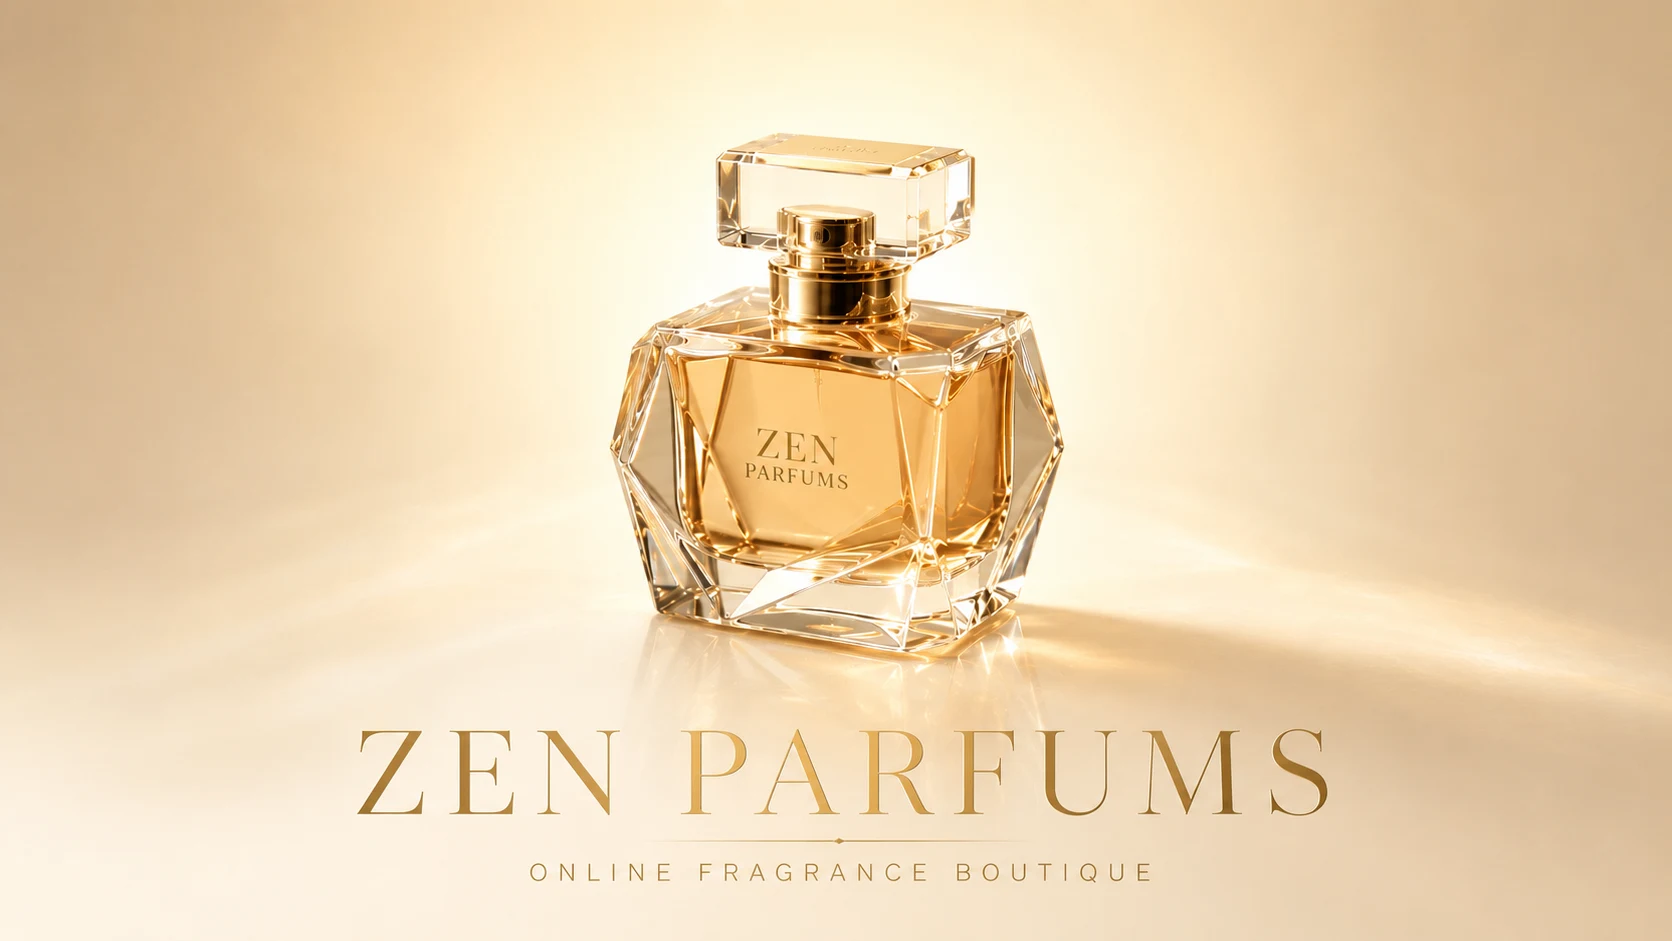
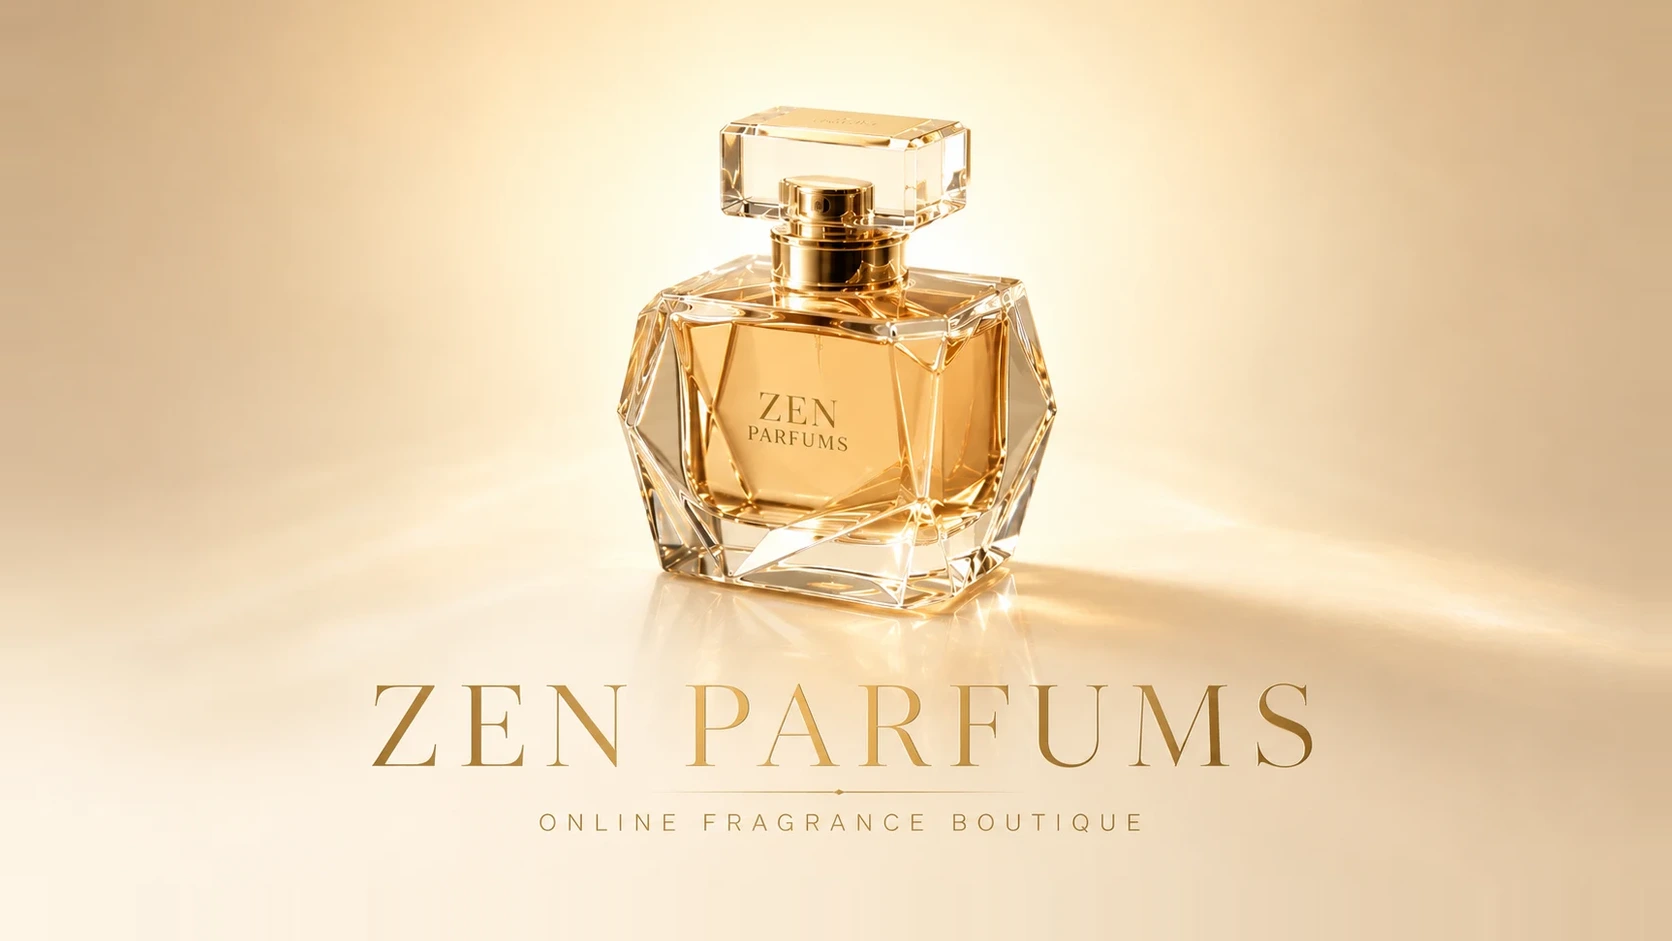
Alinear foto clara del hero con la oscura y reemplazar filtros por selector de orden
- Reposiciona y reescala la foto clara del hero (desktop y mobile) para que el frasco quede al mismo tamaño y altura que en modo oscuro.
- Reemplaza los botones de categoría del catálogo por un selector único "Ordenar por" (género + menor/mayor precio), alineado a la derecha del buscador en desktop y apilado en mobile.
- Agrega ordenamiento por precio (asc/desc) en catalog.js.

Changed region(s): [[0.2177, 0.0925, 0.9952, 0.8937]]

diff --git a/index.html b/index.html
@@ -75,17 +75,27 @@
 <section class="sec sec-p" id="catalogo">
   <div class="sec-in">
     <div class="sh rev"><span class="sey">Cat&#225;logo</span><h2 class="st">Fragancias <em>Premium</em></h2><p class="sub">+500 perfumes originales. &#193;rabes e internacionales, para &#233;l, para ella y unisex.</p><div class="gr"></div></div>
-    <div class="srch-wrap">
-      <svg class="srch-ico" width="16" height="16" viewBox="0 0 24 24" fill="none" stroke="currentColor" stroke-width="1.5"><circle cx="11" cy="11" r="8"/><path d="m21 21-4.3-4.3"/></svg>
-      <input class="srch" id="srch" type="search" placeholder="Buscar perfume, marca, notas&#8230;" oninput="onSearch(this.value)" autocomplete="off">
-    </div>
-    <div class="filters">
-      <button class="fb on" onclick="filterBy('todos',this)">Todos</button>
-      <button class="fb" onclick="filterBy('hombre',this)">Hombre</button>
-      <button class="fb" onclick="filterBy('mujer',this)">Mujer</button>
-      <button class="fb" onclick="filterBy('unisex',this)">Unisex</button>
-      <button class="fb" onclick="filterBy('arabes',this)">&#193;rabes</button>
-      <button class="fb" onclick="filterBy('internacional',this)">Internacional</button>
+    <div class="ctrl-row">
+      <div class="srch-wrap">
+        <svg class="srch-ico" width="16" height="16" viewBox="0 0 24 24" fill="none" stroke="currentColor" stroke-width="1.5"><circle cx="11" cy="11" r="8"/><path d="m21 21-4.3-4.3"/></svg>
+        <input class="srch" id="srch" type="search" placeholder="Buscar perfume, marca, notas&#8230;" oninput="onSearch(this.value)" autocomplete="off">
+      </div>
+      <div class="sort-bar">
+        <label class="sort-lb" for="sortSel">Ordenar por</label>
+        <div class="sel-wrap">
+          <select id="sortSel" class="sel-sort" onchange="setSort(this.value)">
+            <option value="todos">Todos</option>
+            <option value="hombre">Hombre</option>
+            <option value="mujer">Mujer</option>
+            <option value="unisex">Unisex</option>
+            <option value="arabes">&#193;rabes</option>
+            <option value="internacional">Internacional</option>
+            <option value="precio-asc">Menor precio</option>
+            <option value="precio-desc">Mayor precio</option>
+          </select>
+          <svg class="sel-chev" width="14" height="14" viewBox="0 0 24 24" fill="none" stroke="currentColor" stroke-width="2"><polyline points="6 9 12 15 18 9"/></svg>
+        </div>
+      </div>
     </div>
     <div class="pg" id="pg"></div>
     <div class="pag" id="pag"></div>
@@ -200,7 +210,7 @@
 <script src="js/cart.js"></script>
 <script src="js/wishlist.js"></script>
 <script src="js/mobmenu.js"></script>
-<script src="js/catalog.js"></script>
+<script src="js/catalog.js?v=2"></script>
 <script src="js/app.js"></script>
 </body>
 </html>

diff --git a/js/catalog.js b/js/catalog.js
@@ -1,5 +1,5 @@
 var PS = 48;
-var cFil = "todos", cSrch = "", cPg = 1;
+var cFil = "todos", cSrch = "", cPg = 1, cSort = "none";
 
 
 /* ---- SEGMENTED CONTROL FEEDBACK ---- */
@@ -65,6 +65,16 @@ function getList() {
   if (cSrch) {
     var q = cSrch;
     l = l.filter(function(p){ return (p.b+" "+p.n+" "+p.nt).toLowerCase().indexOf(q) > -1; });
+  }
+  if (cSort === "asc" || cSort === "desc") {
+    l = l.slice().sort(function(a,b){
+      var ap = a.p > 0 ? a.p : Infinity;
+      var bp = b.p > 0 ? b.p : Infinity;
+      if (ap === Infinity && bp === Infinity) return 0;
+      if (ap === Infinity) return 1;
+      if (bp === Infinity) return -1;
+      return cSort === "asc" ? ap - bp : bp - ap;
+    });
   }
   return l;
 }
@@ -288,18 +298,15 @@ function closeFicha() {
   document.body.style.overflow = "";
 }
 
-function filterBy(cat, btn) {
-  document.querySelectorAll(".fb").forEach(function(b){ b.classList.remove("on"); });
-  if (btn) { btn.classList.add("on"); }
-  else {
-    document.querySelectorAll(".fb").forEach(function(b){
-      if ((cat === "todos" && b.textContent.trim() === "Todos") ||
-          b.textContent.trim().toLowerCase() === cat) b.classList.add("on");
-    });
-  }
-  cFil = cat; cPg = 1; cSrch = "";
+function setSort(v) {
+  if (v === "precio-asc") { cSort = "asc"; cFil = "todos"; }
+  else if (v === "precio-desc") { cSort = "desc"; cFil = "todos"; }
+  else { cSort = "none"; cFil = v; }
+  cPg = 1; cSrch = "";
   var si = $("srch"); if (si) si.value = "";
+  var sel = $("sortSel"); if (sel) sel.value = v;
   renderProds();
-  if (cat !== "todos") setTimeout(function(){ $("catalogo").scrollIntoView({behavior:"smooth",block:"start"}); }, 80);
+  if (v !== "todos") setTimeout(function(){ $("catalogo").scrollIntoView({behavior:"smooth",block:"start"}); }, 80);
 }
+function filterBy(cat) { setSort(cat); }
 function onSearch(v) { cSrch = v.toLowerCase().trim(); cPg = 1; renderProds(); }

diff --git a/css/styles.css b/css/styles.css
@@ -11,9 +11,9 @@
   --e:cubic-bezier(.4,0,.2,1);--t:.28s;--ts:.5s;
   --mw:1280px;
   --hero-ar:0.5628;--header-h:112px;
-  --hero-photo-light:url('../img/hero-light-desktop.webp?v=2');
+  --hero-photo-light:url('../img/hero-light-desktop.webp?v=4');
   --hero-photo-mobile:url('../img/hero-dark-mobile.webp?v=2');
-  --hero-photo-light-mobile:url('../img/hero-light-mobile.webp?v=2');
+  --hero-photo-light-mobile:url('../img/hero-light-mobile.webp?v=5');
   --hero-photo:url('../img/hero-dark-desktop.webp?v=2');
   --surface-strong:#ddd0ba;--header-bg:rgba(235,227,213,.96);--hero-start:#f3ebdf;--hero-mid:#ece0cf;--hero-end:#f7f1e7;--hero-overlay:radial-gradient(circle at 20% 20%,rgba(120,120,120,.05),transparent 18%),radial-gradient(circle at 80% 12%,rgba(90,90,90,.04),transparent 22%),radial-gradient(circle at 24% 78%,rgba(150,150,150,.04),transparent 24%),radial-gradient(circle at 76% 72%,rgba(80,80,80,.03),transparent 16%),linear-gradient(135deg,rgba(255,255,255,.08) 0%,rgba(255,255,255,0) 30%,rgba(255,255,255,.05) 52%,rgba(255,255,255,0) 70%,rgba(255,255,255,.04) 100%),linear-gradient(100deg,rgba(255,255,255,.03) 0%,rgba(255,255,255,0) 27%,rgba(255,255,255,.02) 45%,rgba(255,255,255,0) 78%,rgba(255,255,255,.01) 100%);
 }
@@ -42,7 +42,7 @@ body[data-theme="dark"]{
 body[data-theme="dark"] .tbar,body[data-theme="dark"] .sec-p,body[data-theme="dark"] .sec-cta{background:var(--ow)}
 body[data-theme="dark"] .sec-st,body[data-theme="dark"] .ftr{background:var(--surface-strong)}
 body[data-theme="dark"] .pc,body[data-theme="dark"] .bc,body[data-theme="dark"] .mob,body[data-theme="dark"] .cd{background:var(--w);color:var(--bk)}
-body[data-theme="dark"] .srch,body[data-theme="dark"] .fb,body[data-theme="dark"] .pag-btn{background:var(--w);color:var(--bk);border-color:var(--lg)}
+body[data-theme="dark"] .srch,body[data-theme="dark"] .sel-sort,body[data-theme="dark"] .pag-btn{background:var(--w);color:var(--bk);border-color:var(--lg)}
 body[data-theme="dark"] .ftr .fl,body[data-theme="dark"] .ftr .fct{color:#fff}
 img{display:block;max-width:100%}
 a{text-decoration:none;color:inherit}
@@ -144,13 +144,20 @@ body:not([data-theme="dark"]) .cc .cc-l{color:var(--dg)}
 body:not([data-theme="dark"]) .cc:hover .cc-l{color:var(--go)}
 /* PRODUCTS */
 .sec-p{background:var(--ow)}
+.ctrl-row{display:flex;align-items:center;justify-content:center;gap:20px;max-width:820px;margin:0 auto 44px}
 .srch-wrap{max-width:480px;margin:0 auto 28px;position:relative}
+.ctrl-row .srch-wrap{flex:1 1 320px;margin:0}
 .srch{width:100%;padding:13px 16px 13px 44px;border:1px solid var(--lg);border-radius:100px;font-family:var(--fb);font-size:13px;color:var(--bk);background:var(--w);outline:none;transition:border-color var(--t)}
 .srch:focus{border-color:var(--go)}
 .srch-ico{position:absolute;left:16px;top:50%;transform:translateY(-50%);color:var(--gr);pointer-events:none}
-.filters{display:flex;gap:8px;justify-content:center;flex-wrap:wrap;margin-bottom:44px}
-.fb{padding:8px 20px;font-size:11px;font-weight:500;letter-spacing:.08em;text-transform:uppercase;border-radius:100px;border:1px solid var(--lg);color:var(--gr);background:var(--w);transition:all var(--t) var(--e)}
-.fb:hover,.fb.on{background:var(--surface-strong);border-color:var(--surface-strong);color:#fff}
+.sort-bar{display:flex;align-items:center;justify-content:center;gap:14px;flex-wrap:wrap;margin-bottom:44px}
+.ctrl-row .sort-bar{margin:0;flex:0 0 auto}
+.sort-lb{font-size:11px;font-weight:500;letter-spacing:.14em;text-transform:uppercase;color:var(--gr)}
+.sel-wrap{position:relative;display:inline-flex;align-items:center}
+.sel-sort{appearance:none;-webkit-appearance:none;-moz-appearance:none;width:168px;padding:11px 34px 11px 18px;font-family:var(--fb);font-size:12px;font-weight:500;letter-spacing:.04em;color:var(--bk);background:var(--w);border:1px solid var(--lg);border-radius:100px;cursor:pointer;outline:none;transition:border-color var(--t),box-shadow var(--t)}
+.sel-sort:hover{border-color:var(--go)}
+.sel-sort:focus{border-color:var(--go);box-shadow:0 0 0 3px rgba(184,150,90,.15)}
+.sel-chev{position:absolute;right:14px;top:50%;transform:translateY(-50%);color:var(--gr);pointer-events:none}
 .pg{display:grid;grid-template-columns:repeat(4,1fr);gap:22px}
 /* CARD */
 .pc{background:var(--w);border-radius:var(--r8);overflow:hidden;box-shadow:var(--sh);transition:all var(--t) var(--e);position:relative;display:flex;flex-direction:column}
@@ -413,7 +420,7 @@ body[data-theme="dark"] .pm-ficha-ico:hover{background:#c89d4d !important;color:
 /* RESPONSIVE */
 @media(max-width:1100px){.pg{grid-template-columns:repeat(3,1fr)}.cg{grid-template-columns:repeat(3,1fr)}.sg{grid-template-columns:repeat(2,1fr)}}
 @media(max-width:960px){.ft{grid-template-columns:1fr 1fr}.tg2{grid-template-columns:1fr}}
-@media(max-width:768px){:root{--hero-ar:0.9286}.sec{padding:56px 20px}.site-header-links{display:none}.site-burger{display:flex}.cg{grid-template-columns:repeat(2,1fr);gap:10px}.pg{grid-template-columns:repeat(2,1fr);gap:12px}.pc-bd{padding:14px}.bg3{grid-template-columns:1fr;gap:16px}.sg{grid-template-columns:repeat(2,1fr);gap:16px}.ft{grid-template-columns:1fr;gap:32px}.fb2{flex-direction:column;gap:8px;text-align:center}.tbar-in{flex-direction:row;flex-wrap:wrap}.ti{max-width:100%}.ti+.ti{border-left:1px solid var(--lg)}.pc-ft{flex-direction:column;align-items:stretch;gap:10px}.pc-seg{width:100%;max-width:100%}.pc-seg-i{flex:1 1 0;min-width:0;width:auto;height:40px}.pc-seg .pw,.pc-seg .badd{width:auto;height:40px}body{background-image:var(--hero-photo-light-mobile)}body[data-theme="dark"]{background-image:var(--hero-photo-mobile)}}
+@media(max-width:768px){:root{--hero-ar:0.9286}.sec{padding:56px 20px}.site-header-links{display:none}.site-burger{display:flex}.cg{grid-template-columns:repeat(2,1fr);gap:10px}.pg{grid-template-columns:repeat(2,1fr);gap:12px}.pc-bd{padding:14px}.bg3{grid-template-columns:1fr;gap:16px}.sg{grid-template-columns:repeat(2,1fr);gap:16px}.ft{grid-template-columns:1fr;gap:32px}.fb2{flex-direction:column;gap:8px;text-align:center}.tbar-in{flex-direction:row;flex-wrap:wrap}.ti{max-width:100%}.ti+.ti{border-left:1px solid var(--lg)}.pc-ft{flex-direction:column;align-items:stretch;gap:10px}.pc-seg{width:100%;max-width:100%}.pc-seg-i{flex:1 1 0;min-width:0;width:auto;height:40px}.pc-seg .pw,.pc-seg .badd{width:auto;height:40px}body{background-image:var(--hero-photo-light-mobile)}body[data-theme="dark"]{background-image:var(--hero-photo-mobile)}.ctrl-row{flex-direction:column;align-items:stretch;gap:20px;max-width:480px}.ctrl-row .srch-wrap{flex:none}.sort-bar{flex-direction:column;align-items:stretch;gap:8px}.sort-lb{text-align:center}.sel-wrap{width:100%}.sel-sort{width:100%;min-width:0}}
 @media(max-width:480px){
 :root{--header-h:94px}
 .hdot{display:none}